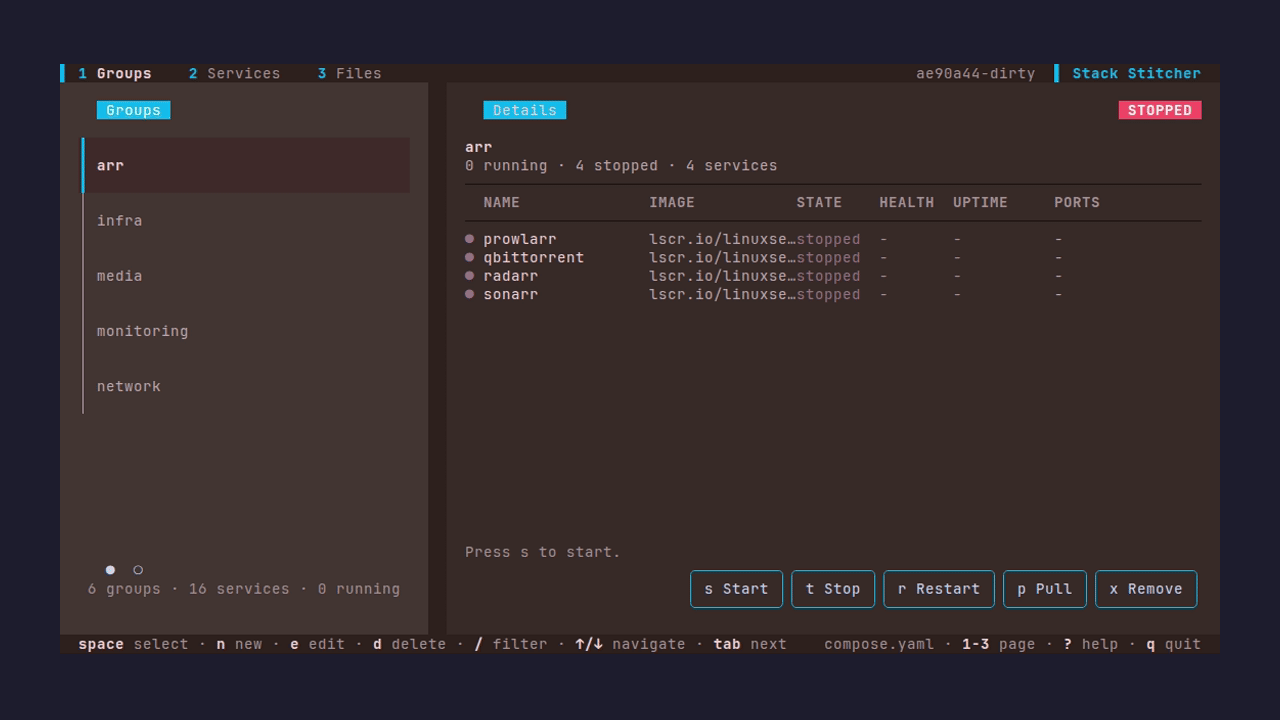
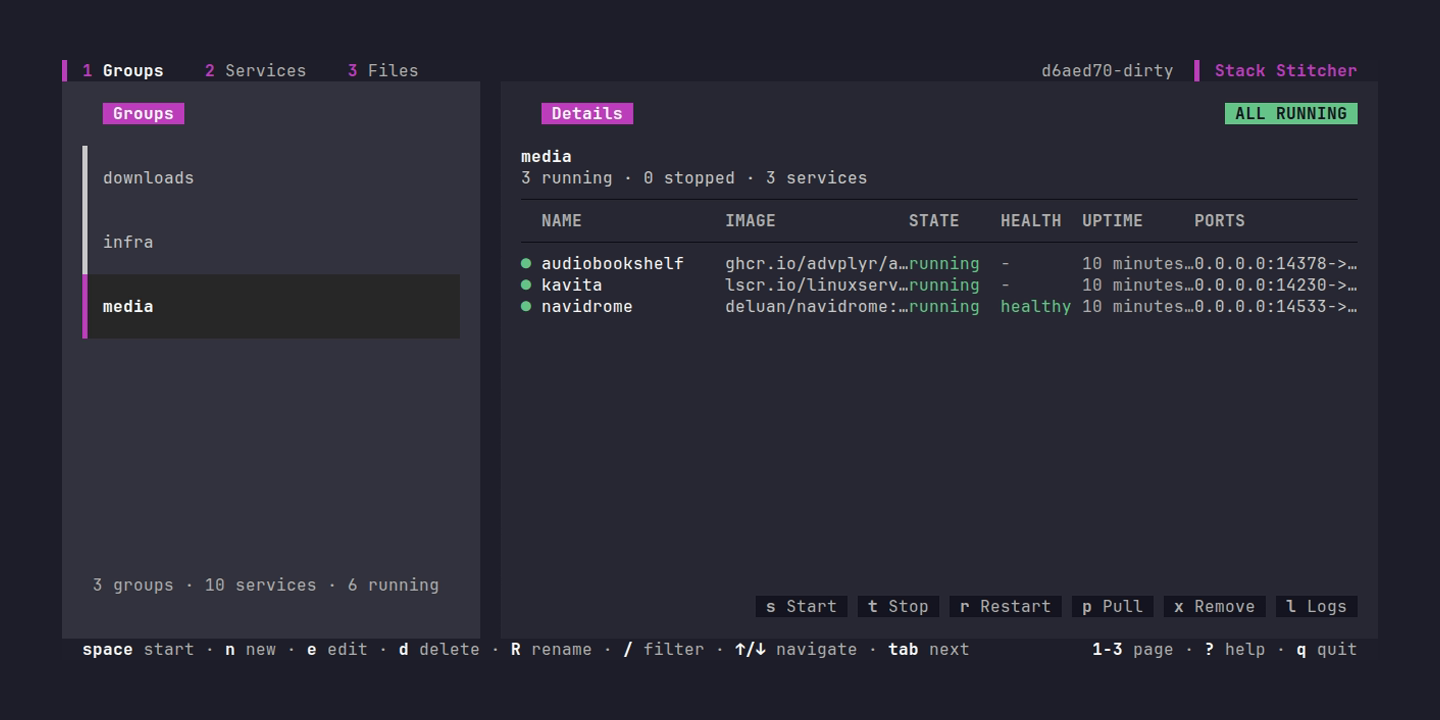
Re-record the demo and screenshots against the current UI
Every image in the README predated the theme overhaul, the service
details redesign, the action chip row and the rename key, so the pitch
was showing a UI that no longer exists.

demo/screenshots.tape is new: it drives the app through the six screens
worth showing (groups, service details with live stats, the inline YAML
editor, streaming logs, the highlighted compose file, the theme picker
previewing live) and writes one PNG each. Both tapes now export a
throwaway XDG_CONFIG_HOME first, so recording neither depends on nor
overwrites the recorder's own persisted theme — which the earlier runs
did.

demo.gif is re-recorded against the new fixture and is 2.4MB, down from
3.9MB, despite being longer: mpdecimate plus 10fps plus a 900px render
does more than the old palette pass alone. It now shows the lifecycle
rather than a feature list — browse groups, start four services with one
key, tail them, edit a service's YAML in place, stop them again.

design-preview.tape and its two screenshots are deleted: they recorded a
design three overhauls old, and screenshots.tape replaces them.

diff --git a/docs/plans/cross-platform-testing.md b/docs/plans/cross-platform-testing.md
@@ -47,7 +47,7 @@ free option differs per kind:
   **untried**, not **proven fine** — and "untried" can be fixed by CI.
 - `CONTRIBUTING.md` (Releases section): "GoReleaser ... builds for linux and
   darwin (amd64 and arm64)". The docs mirror the current, Windows-less state.
-- `demo/demo.tape` and `demo/design-preview.tape` exist — VHS is already part
+- `demo/demo.tape` and `demo/screenshots.tape` exist — VHS is already part
   of the project's workflow. `demo.tape`'s header records that VHS "needs
   ttyd + ffmpeg too".
 
